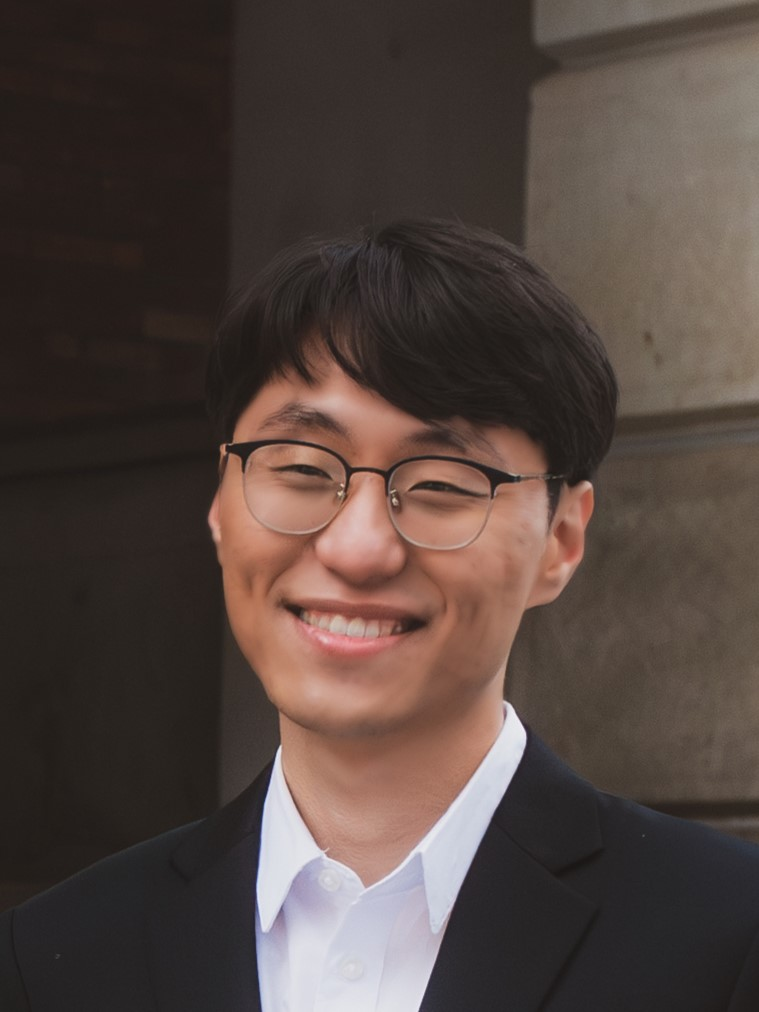
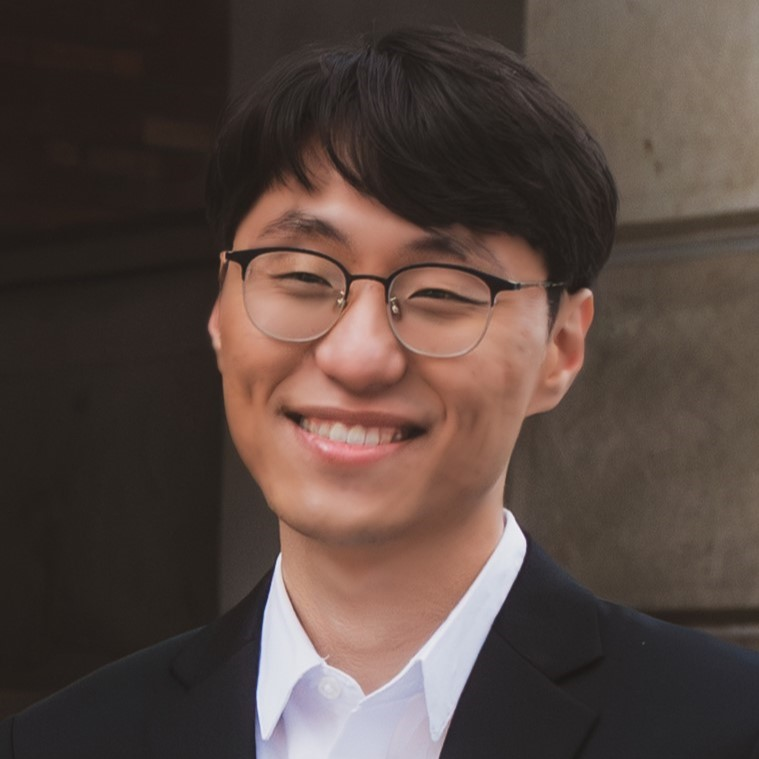
Jadyn liked the other one more

diff --git a/index.html b/index.html
@@ -45,7 +45,7 @@
 <div class="container">
   <div class="row d-flex flex-wrap justify-content-center align-items-center">
     <div class="col-lg-2 add-top-padding" style="min-width:150px;max-width:50%">
-      <img class="img-fluid" style="max-width: 100%" src="asset/img/p1.jpg" alt="Profile Image">
+      <img class="img-fluid" style="max-width: 100%" src="asset/img/p0.jpg" alt="Profile Image">
     </div>
     
     <div class="col-lg-6 add-top-padding">
